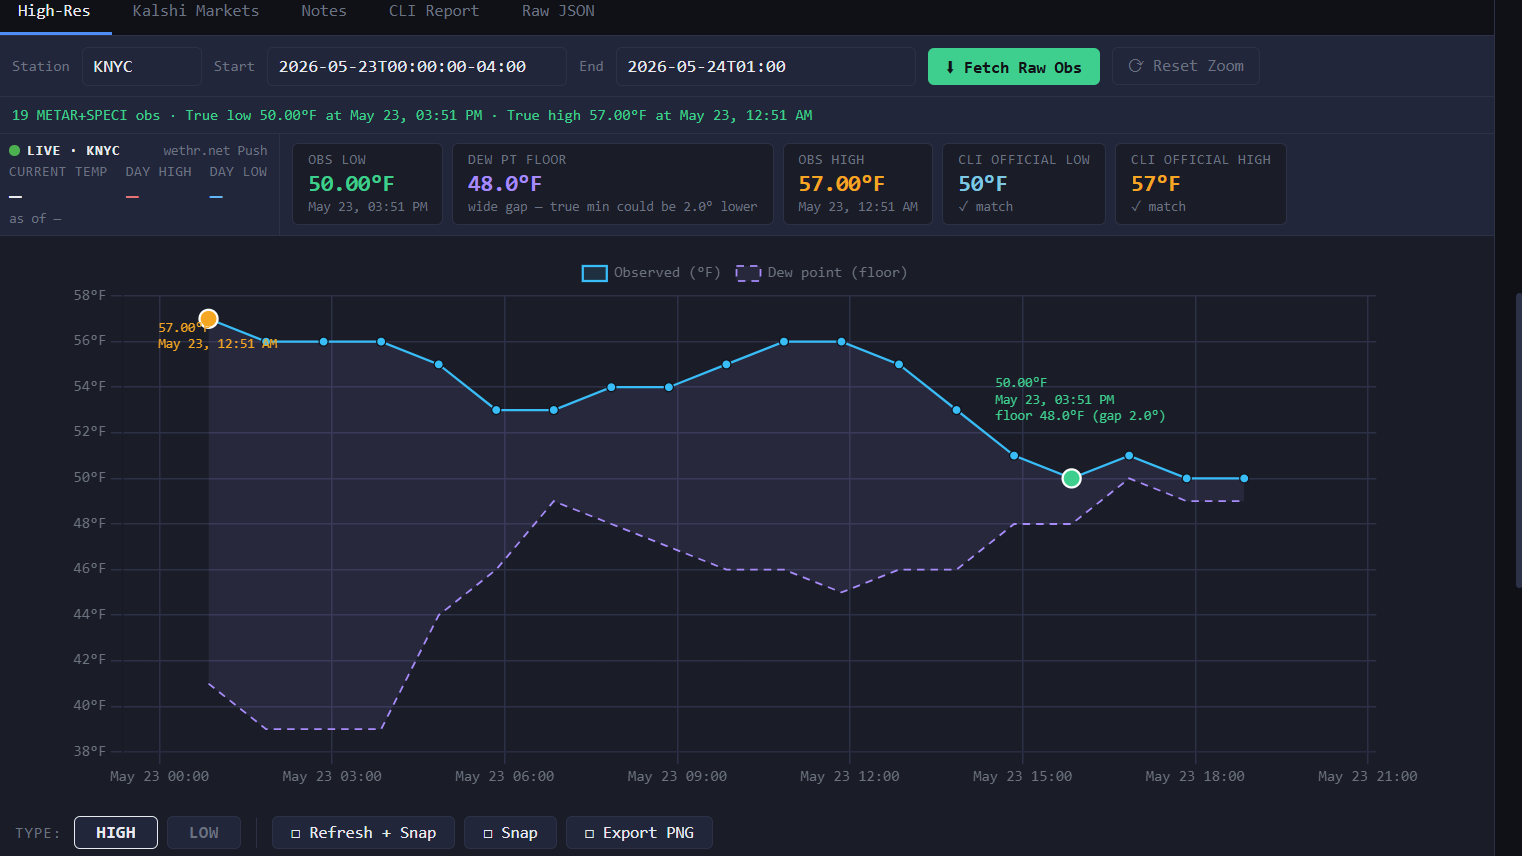
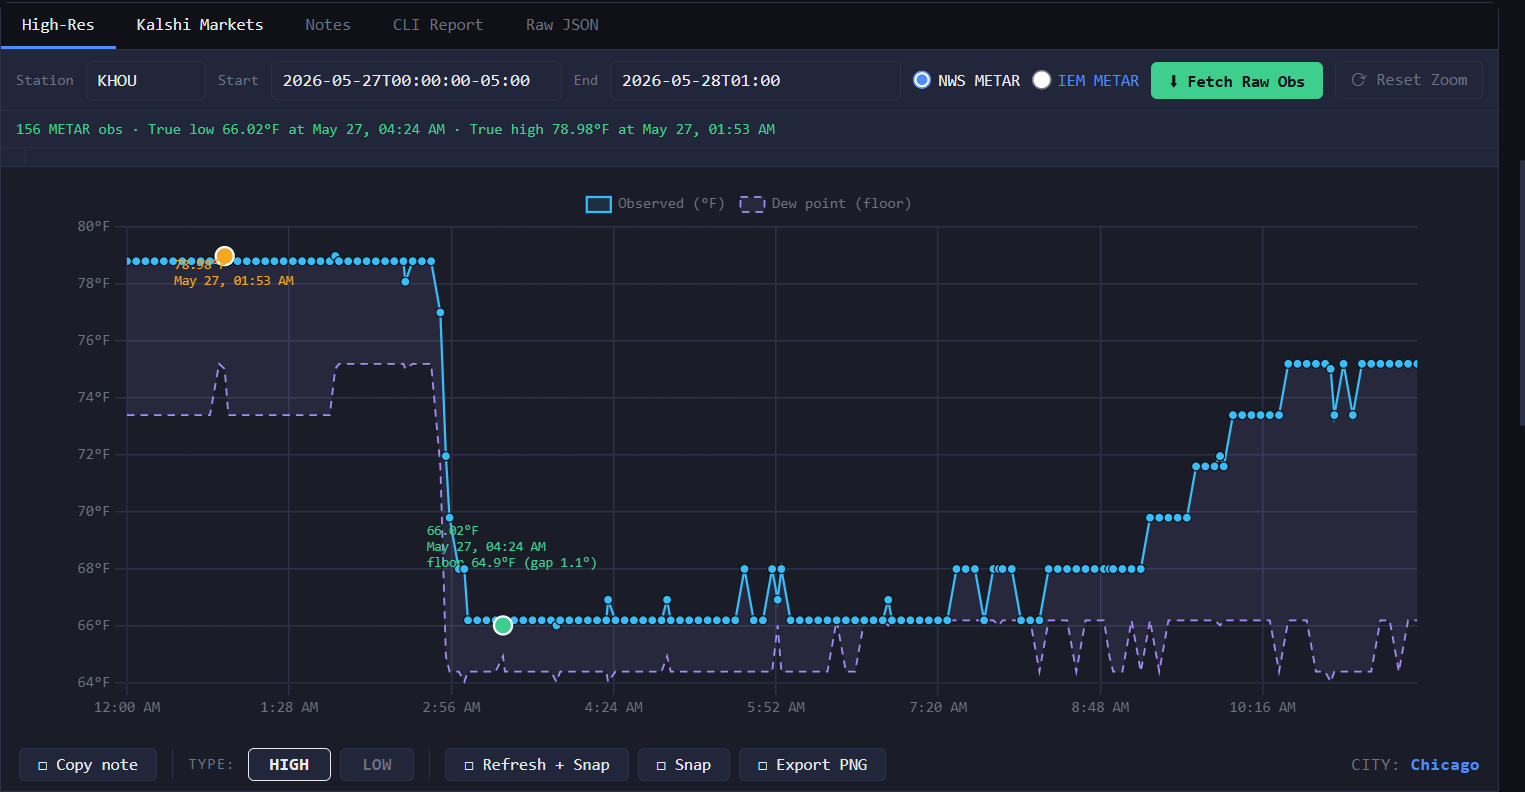
Update app

diff --git a/weather_utils.py b/weather_utils.py
@@ -33,7 +33,6 @@ CITIES: dict[str, tuple[float, float, str]] = {
     "Philadelphia":   (39.952, -75.165,   "America/New_York"),
     "San Francisco":  (37.773, -122.432,  "America/Los_Angeles"),
     "Minneapolis":    (44.979, -93.265,   "America/Chicago"),
-    "Detroit":        (42.332, -83.046,   "America/Detroit"),
     "Las Vegas":      (36.0840, -115.1537, "America/Los_Angeles"),
     "Oklahoma City":  (35.3931,  -97.6011, "America/Chicago"),
     "Austin":         (30.1975,  -97.6664, "America/Chicago"),
@@ -57,7 +56,6 @@ CLI_LOCATIONS: dict[str, str] = {
     "Philadelphia":   "PHL",
     "San Francisco":  "SFO",
     "Minneapolis":    "MSP",
-    "Detroit":        "DTW",
     "Las Vegas":      "LAS",
     "Oklahoma City":  "OKC",
     "Austin":         "AUS",
@@ -90,7 +88,6 @@ CLI_STATION_COORDS: dict[str, tuple[float, float]] = {
     "Philadelphia":   (39.8721,  -75.2411),   # KPHL  Philadelphia Intl
     "San Francisco":  (37.6213, -122.3790),   # KSFO  San Francisco Intl
     "Minneapolis":    (44.8848,  -93.2223),   # KMSP  Minneapolis-St Paul Intl
-    "Detroit":        (42.2124,  -83.3534),   # KDTW  Detroit Metropolitan Wayne County
     "Las Vegas":      (36.0840, -115.1537),   # KLAS  Harry Reid Intl
     "Oklahoma City":  (35.3931,  -97.6011),   # KOKC  Will Rogers World
     "Austin":         (30.1975,  -97.6664),   # KAUS  Austin-Bergstrom Intl
@@ -118,7 +115,6 @@ CLI_STATION_IDS: dict[str, str] = {
     "Philadelphia":   "KPHL",   # Philadelphia Intl
     "San Francisco":  "KSFO",   # San Francisco Intl
     "Minneapolis":    "KMSP",   # Minneapolis-St Paul Intl
-    "Detroit":        "KDTW",   # Detroit Metropolitan Wayne County
     "Las Vegas":      "KLAS",   # Harry Reid Intl
     "Oklahoma City":  "KOKC",   # Will Rogers World
     "Austin":         "KAUS",   # Austin-Bergstrom Intl

diff --git a/readme.md b/readme.md
@@ -8,7 +8,7 @@ A Flask web app for cross-referencing multi-source weather forecasts against Kal
 
 Pulls temperature data from 5 independent sources, overlays them on a single chart, and streams live Kalshi contract prices — so you can see at a glance whether the market is pricing a high or low that no forecast model supports.
 
-- **21 US cities** with per-city ASOS station mapping for accurate CLI settlement data
+- **20 US cities** with per-city ASOS station mapping for accurate CLI settlement data
 - **13 forecast sources**: NWS gridpoint, Open-Meteo HRRR→GFS, MOS (GFS-MOS + LAMP)
 - **Live Kalshi contract stream** via WebSocket — bid/ask spread updated in real time
 - **High-resolution mode** — raw METAR/SPECI observations without hourly resampling, so you see every condition-triggered report
@@ -98,4 +98,4 @@ Kalshi and wethr credentials are optional — the app runs without them, those p
 
 ## Cities supported
 
-21 US cities: New York City, Chicago, Los Angeles, Houston, Miami, Seattle, Denver, Boston, Atlanta, Phoenix, Dallas, Philadelphia, San Francisco, Minneapolis, Detroit, Las Vegas, Oklahoma City, Austin, Washington DC, San Antonio, New Orleans
+20 US cities: New York City, Chicago, Los Angeles, Houston, Miami, Seattle, Denver, Boston, Atlanta, Phoenix, Dallas, Philadelphia, San Francisco, Minneapolis, Las Vegas, Oklahoma City, Austin, Washington DC, San Antonio, New Orleans
